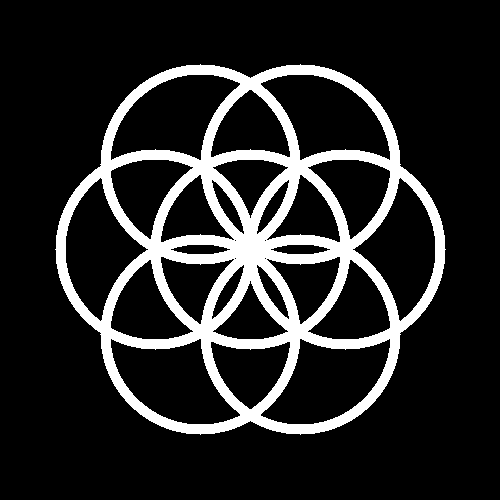
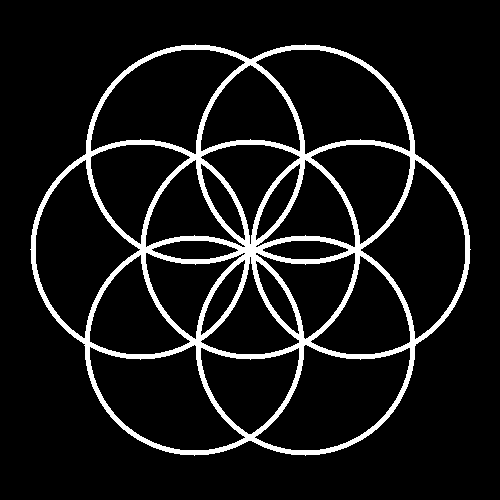
rose window : remake with maths formula

diff --git a/src/main.cpp b/src/main.cpp
@@ -2,6 +2,7 @@
 #include <optional>
 #include "random.hpp"
 #include <cmath>
+#include <numbers>
 
 // ! 1-Star
 void keep_green_only(sil::Image& image)
@@ -156,22 +157,21 @@ void animation(sil::Image& image)
 
 // ! 3-Stars
 
-void rose_window(sil::Image& image)
+void rose_window(sil::Image& image, int nb_petal)
 {
-    int radius{100};
-    int thinkness{10};
-    int img_x_center{image.width()/2};
-    int img_y_center{image.height()/2};
+    int radius{110};
+    int thinkness{5};
+    glm::ivec2 center{image.width()/2, image.height()/2};
 
     circle(image, thinkness, radius);
 
-    circle(image, thinkness, radius, img_x_center+(radius/2), img_y_center+85);
-    circle(image, thinkness, radius, img_x_center+radius-(thinkness/2));
-    circle(image, thinkness, radius, img_x_center+(radius/2), img_y_center-85);
+    for (int i{0}; i < nb_petal; i++)
+    {
+        double theta{(i*((nb_petal%2)==0?2:1)*std::numbers::pi)/nb_petal};
+        double r{radius*std::cos(nb_petal*theta)};
 
-    circle(image, thinkness, radius, img_x_center-(radius/2), img_y_center+85);
-    circle(image, thinkness, radius, img_x_center-radius+(thinkness/2));
-    circle(image, thinkness, radius, img_x_center-(radius/2), img_y_center-85);
+        circle(image, thinkness, radius, center.x + (r*std::cos(theta)), center.y + (r*std::sin(theta))); 
+    }
 }
 
 void glitch(sil::Image& image, int quantity)
@@ -269,7 +269,7 @@ int main()
     // ! 3-Stars
     {
         sil::Image image{500, 500};
-        rose_window(image);
+        rose_window(image, 6);
         image.save("output/3-Stars/rose_window.png");
     }
     // {
